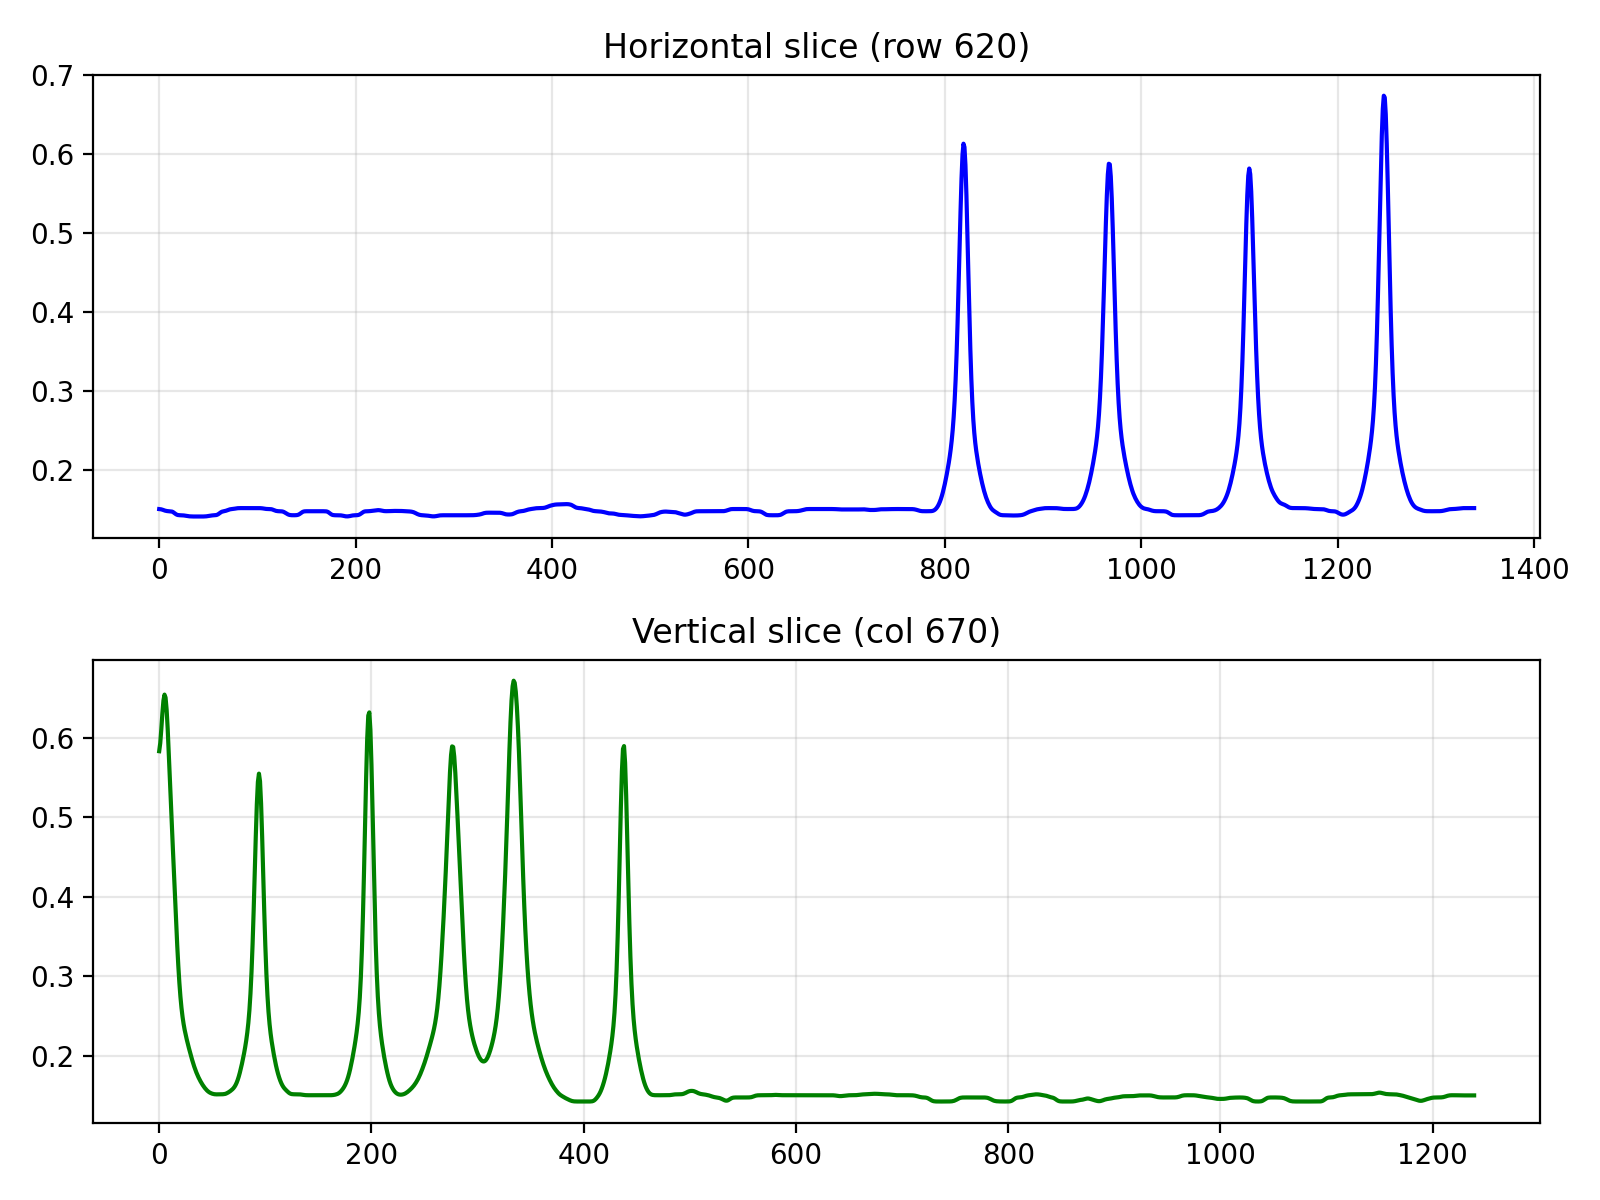
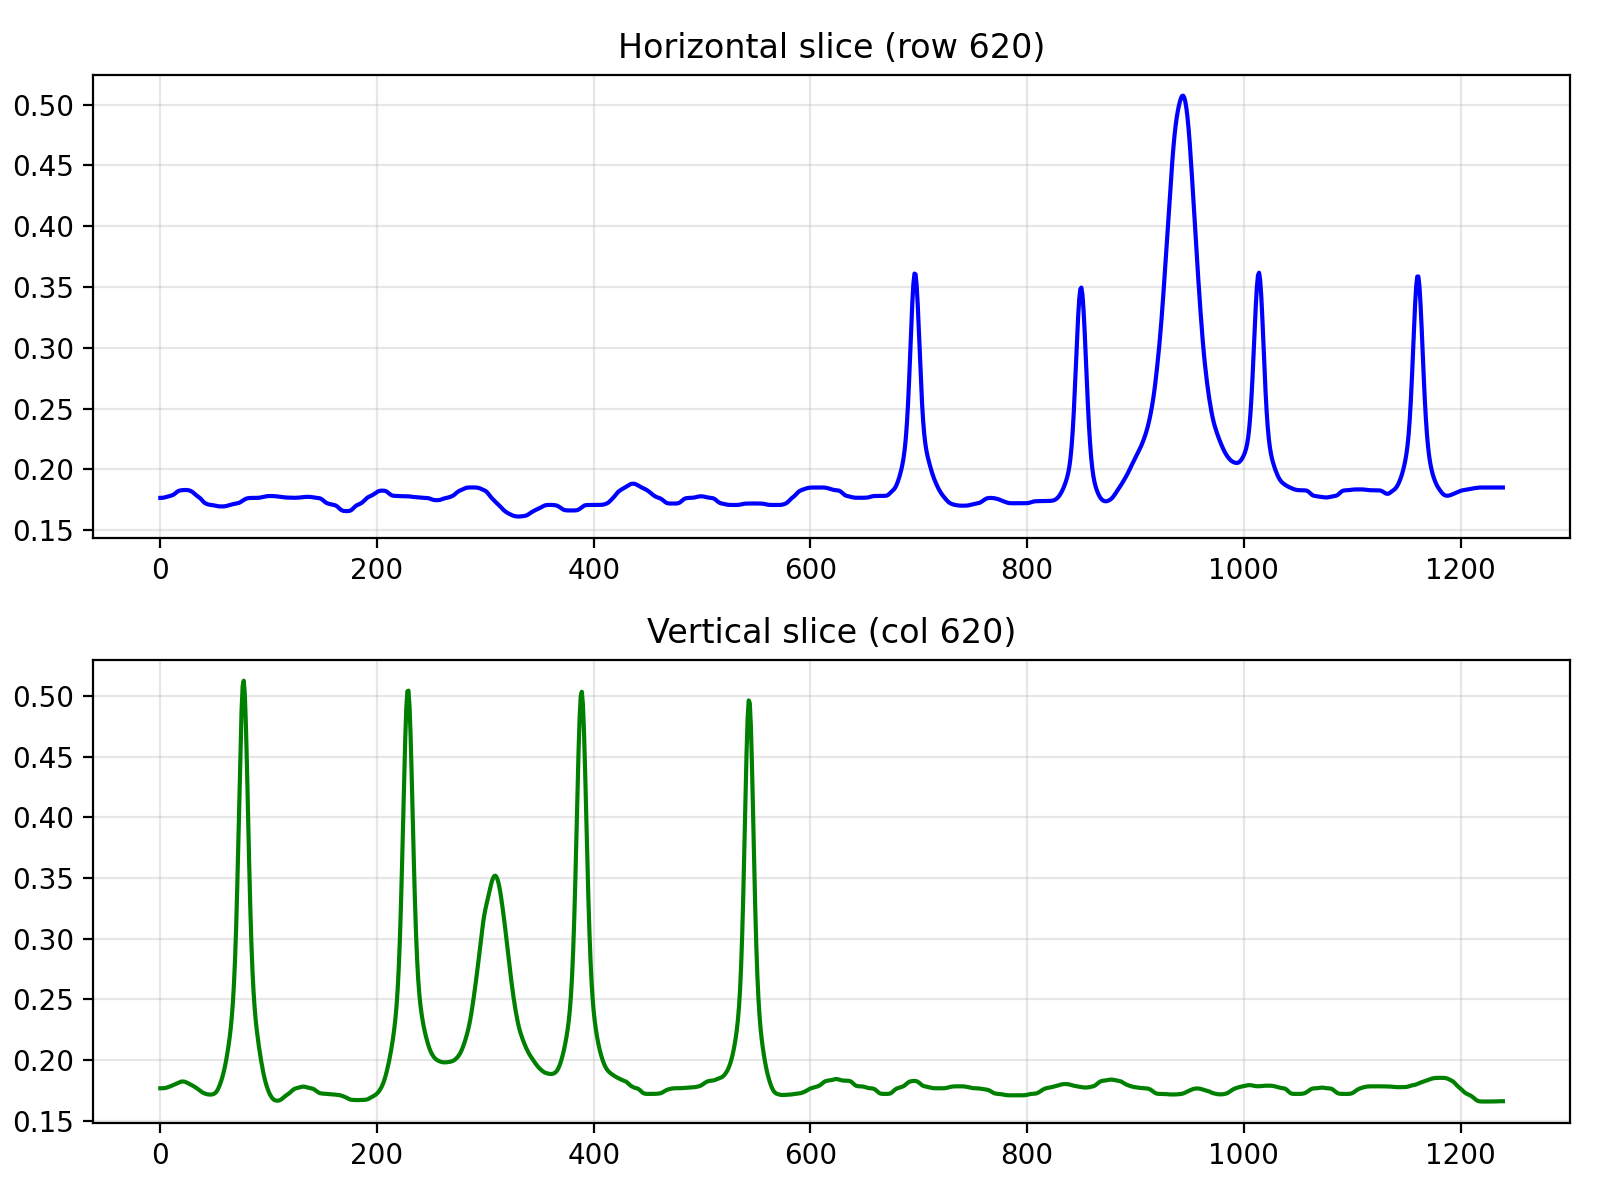
back to qarray csd

diff --git a/1D/1D_extraction.py b/1D/1D_extraction.py
@@ -13,7 +13,7 @@ if len(sys.argv) > 1:
     out_folder = os.path.join("testing_1D", "results", img_basename)
 else:
     # Standalone mode: just drop everything in the main 1D folder
-    input_path = os.path.join("CSD_generated_images", "csd_clean_simCAT.png")
+    input_path = os.path.join("CSD_generated_images", "csd_clean.png")
     out_folder = "1D"
 
 os.makedirs(out_folder, exist_ok=True)
